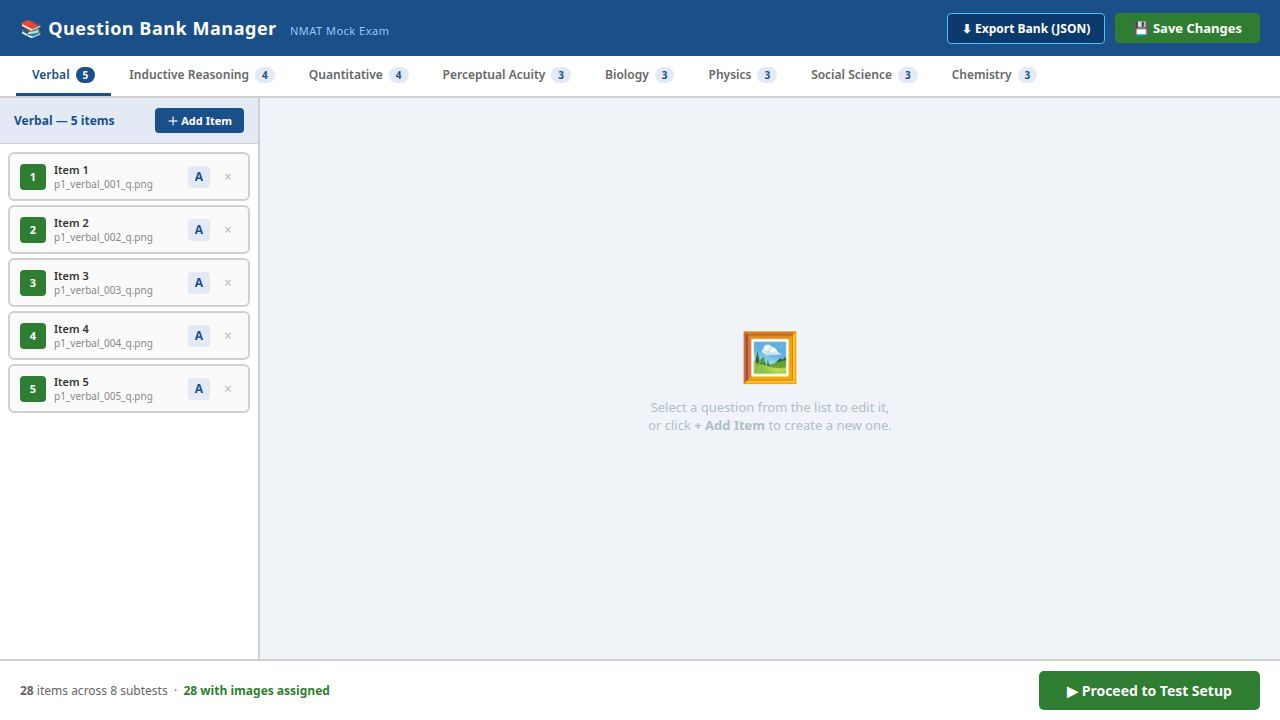
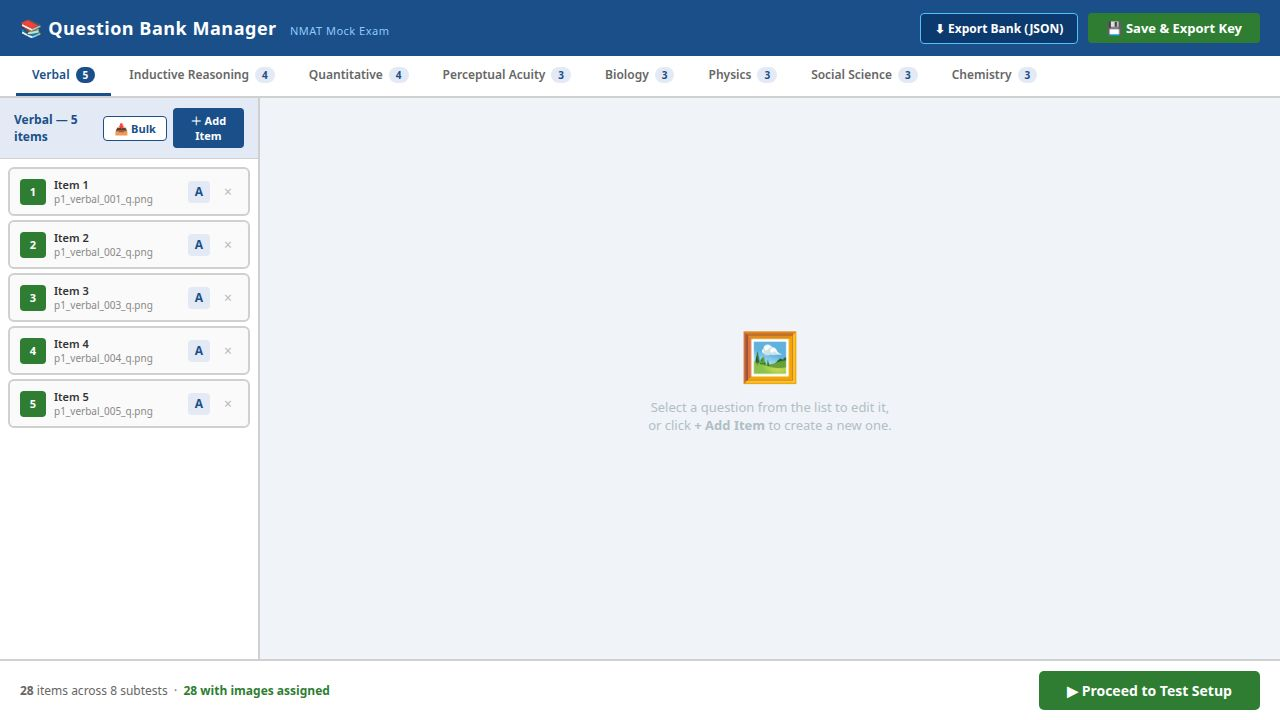
Add persistent answer key storage for exams
Introduces a new `public/answers.json` file for storing exam answers, modifies the question bank manager to save and export this file, and updates the exam initialization to load answers from it, ensuring persistence across sessions and devices.

Replit-Commit-Author: Agent
Replit-Commit-Session-Id: 59d926bd-903b-4ebe-a99f-c27df7f8b6ea
Replit-Commit-Checkpoint-Type: full_checkpoint
Replit-Commit-Event-Id: 1f284760-7d4f-4d91-b196-0eade31cfee0
Replit-Commit-Screenshot-Url: https://storage.googleapis.com/screenshot-production-us-central1/f4cc9a9e-5829-4028-a36b-c8b56c6d3c0c/59d926bd-903b-4ebe-a99f-c27df7f8b6ea/XWiYFIy
Replit-Helium-Checkpoint-Created: true

Changed region(s): [[0.0, 0.1528, 0.2188, 0.5806], [0.7188, 0.0, 0.9688, 0.0611]]

diff --git a/artifacts/nmat-exam/index.html b/artifacts/nmat-exam/index.html
@@ -1020,7 +1020,7 @@ input:checked + .slider:before { transform:translateX(18px); }
     </div>
     <div class="bm-header-actions">
       <button id="btn-bm-export" onclick="openExportModal()">⬇ Export Bank (JSON)</button>
-      <button id="btn-bm-save"   onclick="bmSaveAll()">💾 Save Changes</button>
+      <button id="btn-bm-save"   onclick="bmSaveAll()" title="Saves answers and downloads answers.json — replace public/answers.json in the project to make permanent">💾 Save &amp; Export Key</button>
     </div>
   </div>
 
@@ -1505,7 +1505,8 @@ function bmSaveAll() {
   EXAM_BANK.sections.forEach((sec, i) => {
     sec.bank = bm.draft[i].bank.map(q => ({ ...q }));
   });
-  bmToast('✔ All changes saved to the question bank.');
+  downloadAnswerKey();
+  bmToast('✔ Saved — answers.json downloaded. Replace public/answers.json in your project and push to Vercel to make the key permanent.');
 }
 
 function bmUpdateTabCounts() {
@@ -1613,8 +1614,9 @@ const state = {
   reviewFilter: 'all', reviewSectionFilter: 'all',
 };
 
-function init() {
-  bmInit();  // show bank manager first
+async function init() {
+  await loadAnswerKey();
+  bmInit();
 }
 
 function buildConfigRows(containerId, prefix) {
@@ -2234,6 +2236,44 @@ function bmBulkAssign(files) {
     bmShowEditor(sec.bank[bm.activeItemIdx]);
   }
   bmToast(`✔ ${matched} image${matched !== 1 ? 's' : ''} assigned.`);
+}
+
+/* ════════════════════════════════════════════════════════
+   ANSWER KEY  — persistent via public/answers.json
+════════════════════════════════════════════════════════ */
+
+async function loadAnswerKey() {
+  try {
+    const res = await fetch('answers.json?_=' + Date.now());
+    if (!res.ok) return;
+    const data = await res.json();
+    if (!Array.isArray(data.answers)) return;
+    data.answers.forEach((sectionAnswers, si) => {
+      const sec = EXAM_BANK.sections[si];
+      if (!sec) return;
+      sectionAnswers.forEach((ans, qi) => {
+        if (sec.bank[qi]) sec.bank[qi].answer = ans;
+      });
+    });
+  } catch (_) {
+    // answers.json not found or malformed — keep hardcoded defaults
+  }
+}
+
+function downloadAnswerKey() {
+  const data = {
+    updatedAt: new Date().toISOString(),
+    answers: EXAM_BANK.sections.map(sec => sec.bank.map(q => q.answer || 'A'))
+  };
+  const blob = new Blob([JSON.stringify(data, null, 2)], { type: 'application/json' });
+  const url  = URL.createObjectURL(blob);
+  const a    = document.createElement('a');
+  a.href     = url;
+  a.download = 'answers.json';
+  document.body.appendChild(a);
+  a.click();
+  document.body.removeChild(a);
+  URL.revokeObjectURL(url);
 }
 
 /* ─── START ─── */
